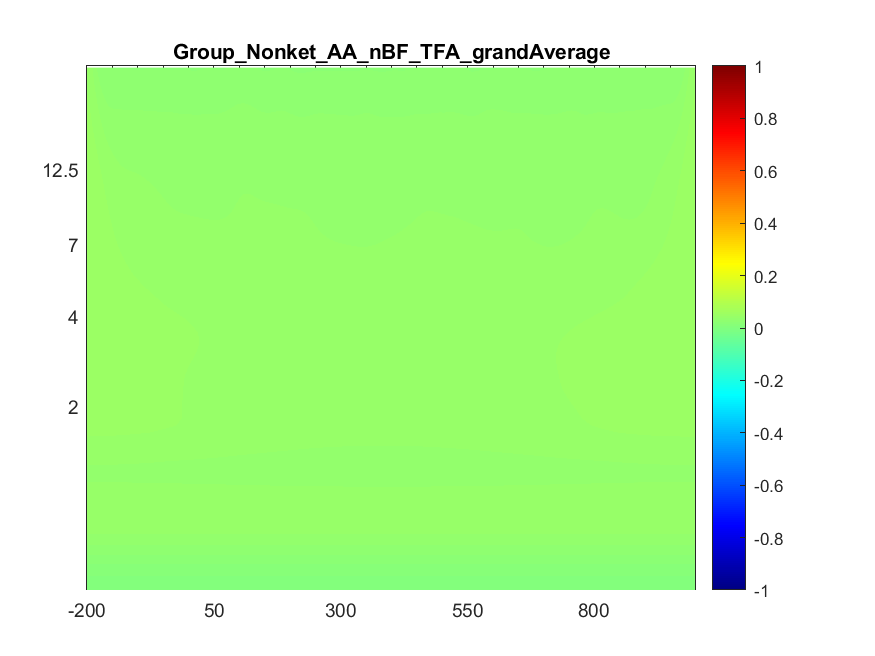
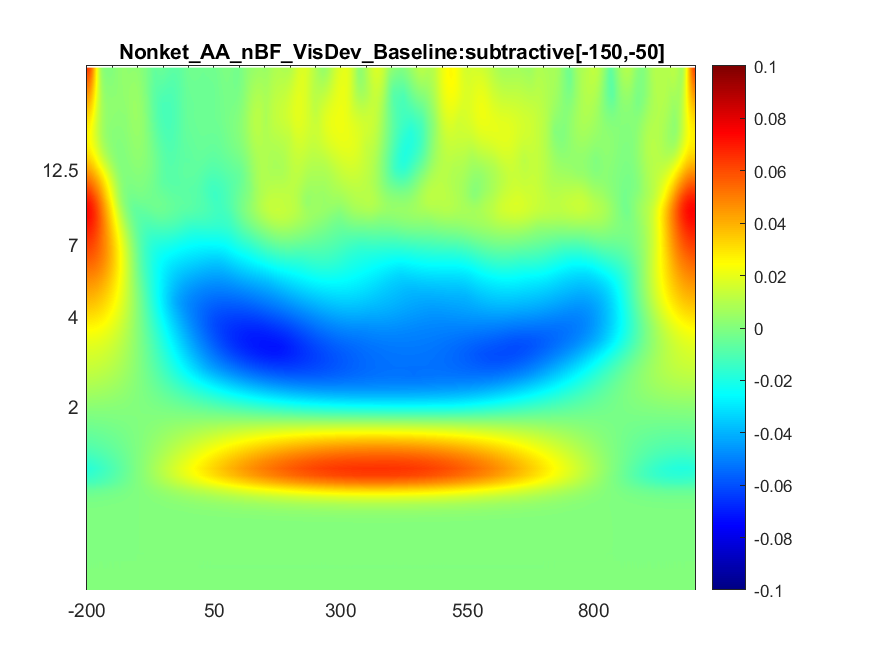
Created the TFA plots per bin

diff --git a/TFA_ERP_Averaging_and_Plotting.m b/TFA_ERP_Averaging_and_Plotting.m
@@ -247,8 +247,8 @@ for tfatype=1:length(tfaTypes)
         TFA = loadTFA('filename',tfaFiles{t},'filepath',tfaAvgFolder); %load TFA file to plot
 
 		%We want to loop through each bin and create a plot for it
-		nBins = TFA.nbin
-		binDescriptors = TFA.bindescr
+		nBins = TFA.nbin;
+		binDescriptors = TFA.bindescr;
 		for bin=1:nBins
 			%We want to set this setting differently based on the type of TFA
 			%we are looking at, this will be based on the tfaTypes variable
@@ -260,10 +260,10 @@ for tfatype=1:length(tfaTypes)
 				datatype = 0;
 			end
 			binArray = [bin]; % Bin indices to plot %TODO:change the 
-			chanArray = [5]; % Maximum number of channels = TFA.nchan
+			chanArray = [TFA.nchan]; % Maximum number of channels = TFA.nchan
 			if contains(tfaFiles{t},tfaTypes{3})
 				%Total power
-				amprange = [-1 1]; % Amplitude range (Z-scale) (displayed as colormap) to plot.
+				amprange = [-0.1 0.1]; % Amplitude range (Z-scale) (displayed as colormap) to plot.
 			elseif contains(tfaFiles{t},tfaTypes{2})
 				%Evoked Power
 				 amprange = [0 3]; % Amplitude range (Z-scale) (displayed as colormap) to plot.
@@ -276,7 +276,7 @@ for tfatype=1:length(tfaTypes)
 			twindow = [-200 1000 -200:250:1000]; % Time window where the first two numbers are the min and max and then remaining numbers designate the ticks
 			fwindow = [0 28    2 4 7 12.5 30 ]; % Time frequency window structured similarly to the twindow
 			blcwin = [-150 -50]; % Baseline correction window
-			blctype = 'None'; % 'Divisive','none', or subtractive are the other types
+			blctype = 'subtractive'; % 'Divisive','none', or subtractive are the other types
 			fshading = 'interp'; % Controls of color shading. Can be 'flat' or  'interp'.
 			fcontour = 'off'; % displays isolines calculated from matrix Z and fills the areas between the isolines using constant colors corresponding to the current figure's colormap. Can be 'on' or  'off'.
 			Ylog = 1; % Logarithmic scale for frequency range (fwindow). Can be 1 (means apply log scale)  or  0 (means apply linear scale).
@@ -290,12 +290,13 @@ for tfatype=1:length(tfaTypes)
 			%Make our plot
 	%         subplot(2,3,i);
 			plotTFA(TFA, datatype, binArray, chanArray, amprange, twindow, fwindow, blcwin, blctype,fshading,fcontour,Ylog,plotype);
-			
-			title([fileNameOnly{1}':' binDescriptors{bin} '_EvokedPower'],'interpreter', 'none')
+			filename = strcat(fileNameOnly{1}(7:20),'_',binDescriptors{bin},'_Baseline_',blctype,'_',strjoin(string(blcwin),'_'));
+			title(filename,'interpreter', 'none')
 			%title('hello','interpreter', 'none');
 			colorbar
 			ax = gca;
-			saveas(ax,[groupPlots '\' tfaFiles{t} '.png'])
+            fileloc = strcat(groupPlots,'\',filename,'.png');
+			saveas(ax,fileloc)
 		end
 
     end
